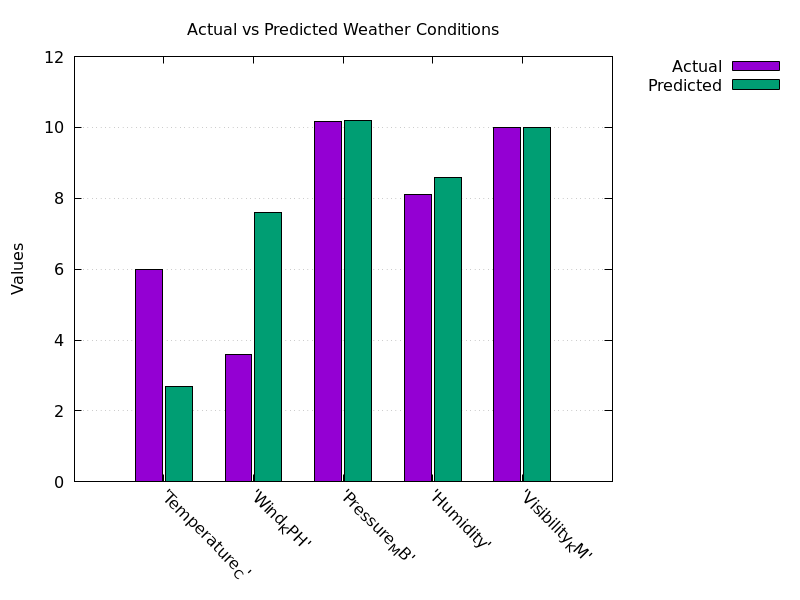
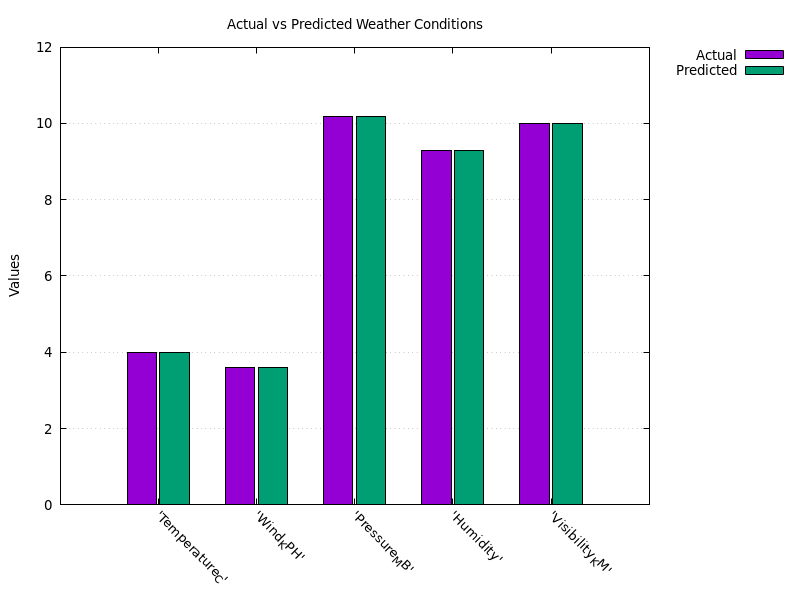
Graph updated

diff --git a/ui/weather_comparison_script.py b/ui/weather_comparison_script.py
@@ -9,7 +9,7 @@ def create_weather_comparison_csv():
 
     # Calculate the index for the predicted weather data
     hour = int(freiburg_weather[0])  # Now correctly reading the 'HH' format
-    predicted_row_index = hour + 2  # Adjusting to get the 16th row as an example
+    predicted_row_index = hour   # Adjusting to get the 16th row as an example
 
     # Read the predicted weather data from the general weather data file
     with open('data/weatherdata/weather_data.csv', mode='r') as file:

diff --git a/ui/weather_comparison_plot.py b/ui/weather_comparison_plot.py
@@ -12,7 +12,7 @@ def generate_weather_comparison_graph(csv_file_path, output_file_path):
 
     # GNUPlot command file content, adjusted for the given CSV structure
     gnuplot_commands = f"""
-    set terminal pngcairo size 800,600
+    set terminal pngcairo transparent size 800,600 enhanced font 'Verdana,10'
     set output '{output_file_path}'
     set style data histograms
     set style histogram cluster gap 1
